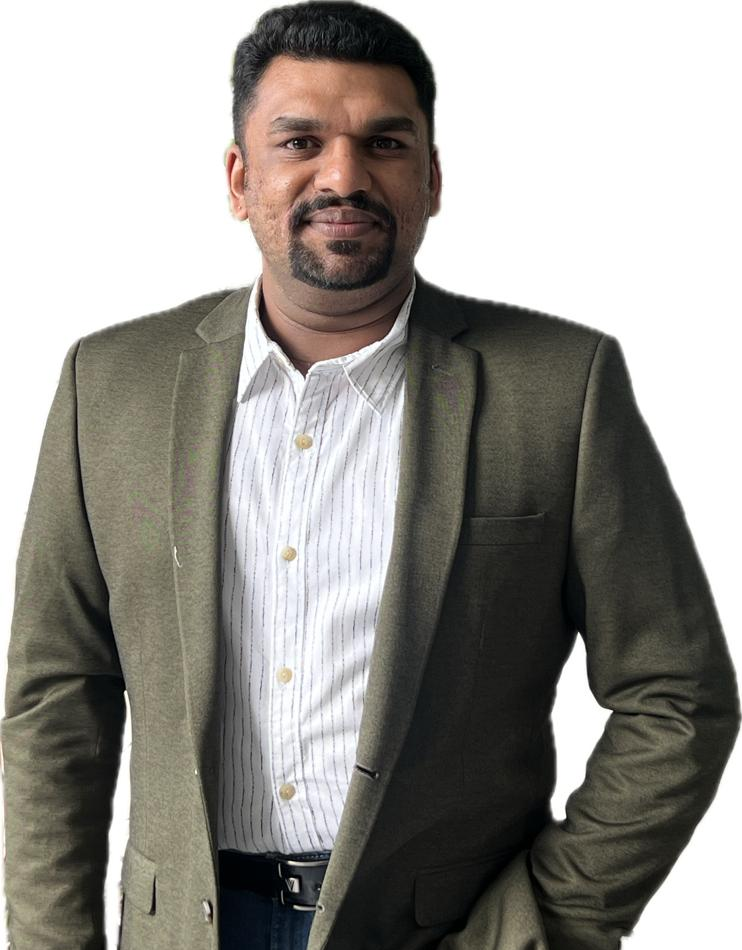
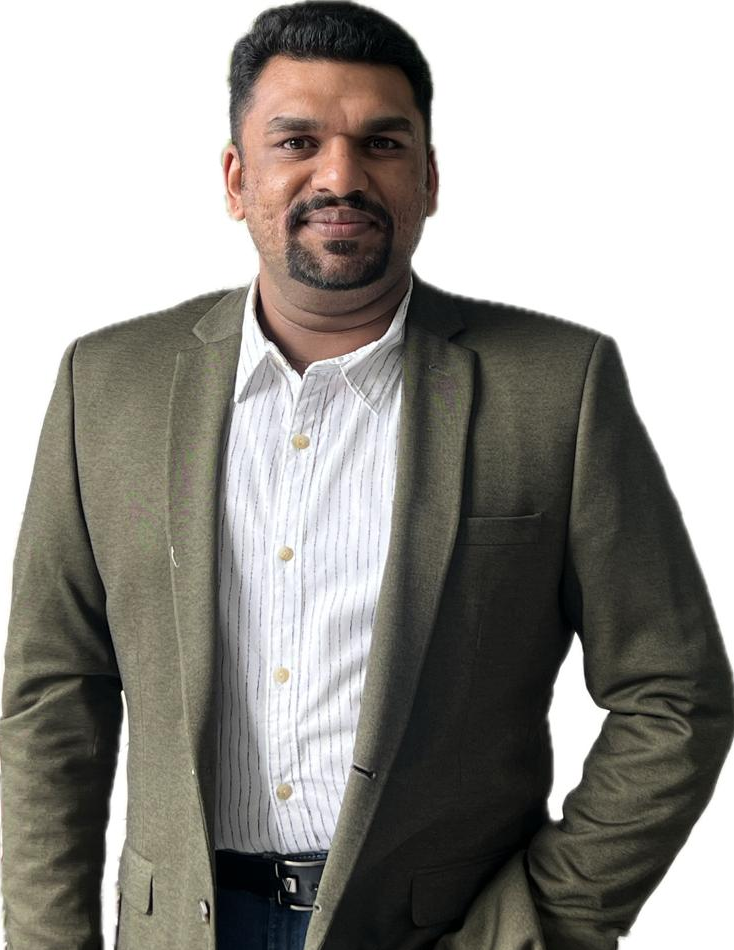
css changes

diff --git a/src/component/Header.jsx b/src/component/Header.jsx
@@ -14,7 +14,7 @@ const Header = () => {
         <header className="cs_site_header cs_style_1 cs_sticky_header cs_site_header_full_width">
           <div className="cs_top_header">
             <div className="container">
-              <div className="cs_top_header_in">
+              <div className="cs_top_header_in justify-content-center">
                 <div className="cs_top_header_left">
                   <ul className="cs_top_nav d-flex flex-wrap align-items-center cs_fs_12 text-white m-0 p-0">
                     <li>
@@ -26,7 +26,7 @@ Indore MP India
                     </li>
                   </ul>
                 </div>
-                <div className="cs_top_header_right">
+                {/* <div className="cs_top_header_right">
                   <ul className="cs_top_nav d-flex flex-wrap align-items-center cs_fs_12 text-white m-0 p-0">
                     <li>
                       <a href="/contact">Help</a>
@@ -38,7 +38,7 @@ Indore MP India
                       <a href="/contact">Contact</a>
                     </li>
                   </ul>
-                </div>
+                </div> */}
               </div>
             </div>
           </div>
@@ -46,7 +46,7 @@ Indore MP India
             <div className="container">
               <div className="cs_main_header_in">
                 <div className="cs_main_header_left">
-                  <a className="cs_site_branding" href="index.html">
+                  <a className="cs_site_branding" href="">
                     <img src="assets/img/dadoo-full-logo.png" className='img-fluid' alt="Logo" />
                   </a>
                   <div className="cs_nav cs_primary_font fw-medium">
@@ -138,7 +138,7 @@ Indore MP India
                 </div>
                 <div className="cs_main_header_right">
                   <div className="cs_toolbox">
-                    <div className="cs_header_search_wrap position-relative">
+                    {/* <div className="cs_header_search_wrap position-relative">
                       <span className="cs_header_search_btn d-flex">
                         <svg
                           width={25}
@@ -170,7 +170,7 @@ Indore MP India
                           </svg>
                         </button>
                       </form>
-                    </div>
+                    </div> */}
                     <div className="cs_header_contact">
                       <div className="cs_header_contact_icon text-accent">
                         <svg
@@ -207,7 +207,7 @@ Indore MP India
                           Need help? Call us:
                         </h3>
                         <h3 className="text-white m-0 cs_fs_13">
-                        + 91 9425900068
+                        <a className='text-white' href="tel:+91 9425900068">+ 91 9425900068</a>
                         </h3>
                       </div>
                     </div>

diff --git a/src/component/Footer.jsx b/src/component/Footer.jsx
@@ -15,7 +15,7 @@ const Footer = () => {
             Have Any Question?
           </h3>
           <h2 className="text-white fw-medium m-0 cs_fs_22">
-            + 91 9425900068
+            <a className='text-white' href="tel:+91 9425900068">+ 91 9425900068</a>
           </h2>
         </div>
         <div
@@ -109,16 +109,16 @@ const Footer = () => {
             </div> */}
           </div>
           <div className="col-lg-3">
-            <div className="cs_footer_item cs_pt_20 cs_pb_20">
+            {/* <div className="cs_footer_item cs_pt_20 cs_pb_20">
               <div className="cs_newsletter cs_style_1">
                 <h2 className="cs_newsletter_title text-white cs_fs_22 cs_mb_9">
                   Newsletter
                 </h2>
-                {/* <p className="cs_newsletter_subtitle cs_mb_26">
+                <p className="cs_newsletter_subtitle cs_mb_26">
                   {" "}
                   At vero eos et accusamus et iusto odio as part dignissimos
                   ducimus qui blandit.{" "}
-                </p> */}
+                </p>
                 <form
                   action="#"
                   className="cs_newsletter_form position-relative"
@@ -133,7 +133,7 @@ const Footer = () => {
                   </button>
                 </form>
               </div>
-            </div>
+            </div> */}
           </div>
         </div>
       </div>
@@ -141,7 +141,7 @@ const Footer = () => {
     <div className="cs_copyright text-center cs_fs_124 cs_lh_lg cs_pt_36 cs_pb_36">
       <div className="container">
         <p className="m-0">
-          Copyright © 2023 <a href="index.html">The Dadoo Group</a>. All rights reserved.
+          Copyright © 2023 <a href="">The Dadoo Group</a>. All rights reserved.
         </p>
       </div>
     </div>

diff --git a/src/pages/Contact.jsx b/src/pages/Contact.jsx
@@ -159,7 +159,7 @@ const Contact = () => {
                                         <div>
                                             <p className="text-accent cs_mb_7 text-left">Have Any Question?</p>
                                             <h2 className="m-0 fw-medium cs_fs_22 cs_fs_lg_16 cs_lh_base text-left">
-                                            + 91 9425900068
+                                            <a className='text-white' href="tel:+91 9425900068">+ 91 9425900068</a>
                                             </h2>
                                         </div>
                                     </div>
@@ -181,7 +181,7 @@ const Contact = () => {
                                         <div>
                                             <p className="text-accent cs_mb_7 text-left">Send Email</p>
                                             <h2 className="m-0 fw-medium cs_fs_22 cs_fs_lg_16 cs_lh_base text-left">
-                                            secpl.indore@gmail.com
+                                           <a href="mailto:secpl.indore@gmail.com"> secpl.indore@gmail.com</a>
                                             </h2>
                                         </div>
                                     </div>

diff --git a/src/pages/Homepage.jsx b/src/pages/Homepage.jsx
@@ -1835,7 +1835,7 @@ occupancy the early stage of any risk. Also to protect the building property and
             <div>
               <p className="text-accent cs_mb_7 text-left">Have Any Question?</p>
               <h2 className="text-white m-0 fw-medium cs_fs_20 cs_fs_lg_16 cs_lh_base text-left">
-              + 91 9425900068
+              <a className='text-white' href="tel:+91 9425900068">+ 91 9425900068</a>
               </h2>
             </div>
           </div>
@@ -1857,7 +1857,8 @@ occupancy the early stage of any risk. Also to protect the building property and
             <div>
               <p className="text-accent cs_mb_7 text-left">Send Email</p>
               <h2 className="text-white m-0 fw-medium cs_fs_20 cs_fs_lg_16 cs_lh_base text-left">
-              secpl.indore@gmail.com
+              <a href="mailto:secpl.indore@gmail.com" className='text-white'> secpl.indore@gmail.com</a>
+
               </h2>
             </div>
           </div>

diff --git a/src/pages/Team.jsx b/src/pages/Team.jsx
@@ -16,7 +16,7 @@ const Team = () => {
         <nav aria-label="breadcrumb">
           <ol className="breadcrumb text-white cs_fs_18 cs_mb_5">
             <li className="breadcrumb-item">
-              <a href="index.html">Home</a>
+              <a href="">Home</a>
             </li>
             <li className="breadcrumb-item active">Team</li>
           </ol>
@@ -133,7 +133,7 @@ const Team = () => {
               <div className="cs_team_member position-relative cs_rounded_50">
                 <img
                   className="w-100 cs_rounded_50 bg-blackish"
-                  src="assets/img/home/team.png"
+                  src="assets/img/home/mayanka-dadu.png"
                   alt="Member"
                 />
                 {/* <div className="cs_social_btns d-flex flex-wrap cs_column_gap_15 cs_row_gap_15 cs_transition_5 cs_fs_20 cs_fs_lg_18 position-absolute">
